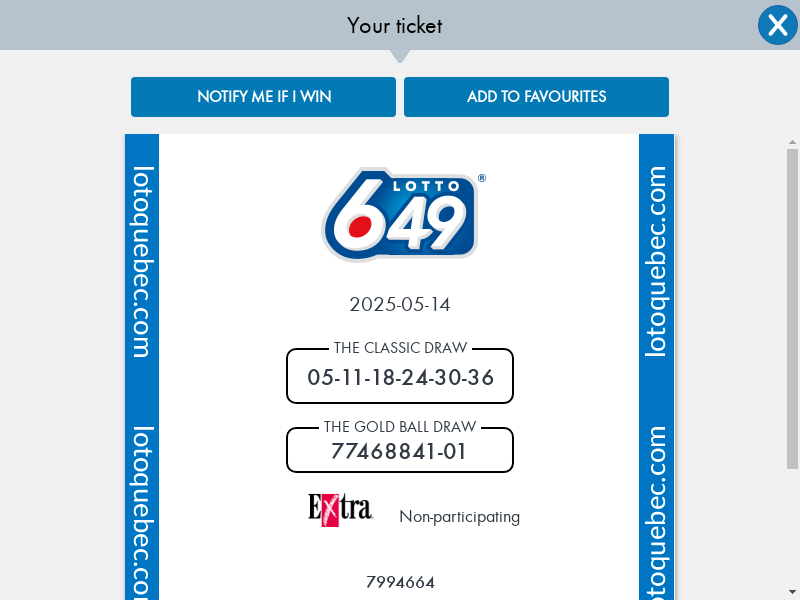
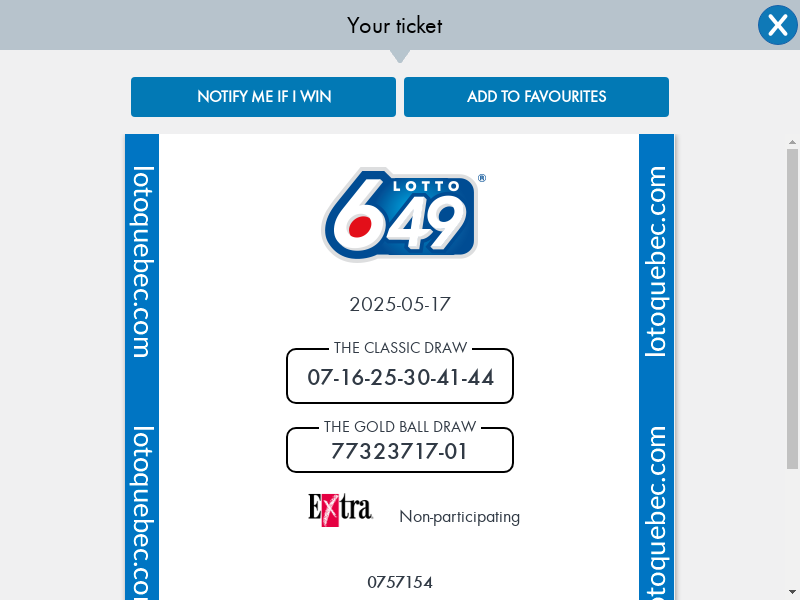
auto commit

diff --git a/docs/index.html b/docs/index.html
@@ -76,7 +76,14 @@
             </tr>
             </thead>
             <tbody>
-            <tr><td>2025-05-10</td><td>05-11-18-24-30-36</td><td>empty</td><td>{
+            <tr><td>2025-05-14</td><td>07-16-25-30-41-44</td><td>empty</td><td>{
+  "generate_nums": ["07", "16", "25", "30", "41", "44"]
+}</td></tr>
+<tr><td>2025-05-10</td><td>05-11-18-24-30-36</td><td>match 1 number, win number: The Classic Draw
+
+
+01-08-17-18-41-48 Bonus (B):
+(42)</td><td>{
   "generate_nums": ["05", "11", "18", "24", "30", "36"]
 }</td></tr>
 <tr><td>2025-05-07</td><td>03-07-18-21-36-42</td><td>match 0 number, win number: The Classic Draw
